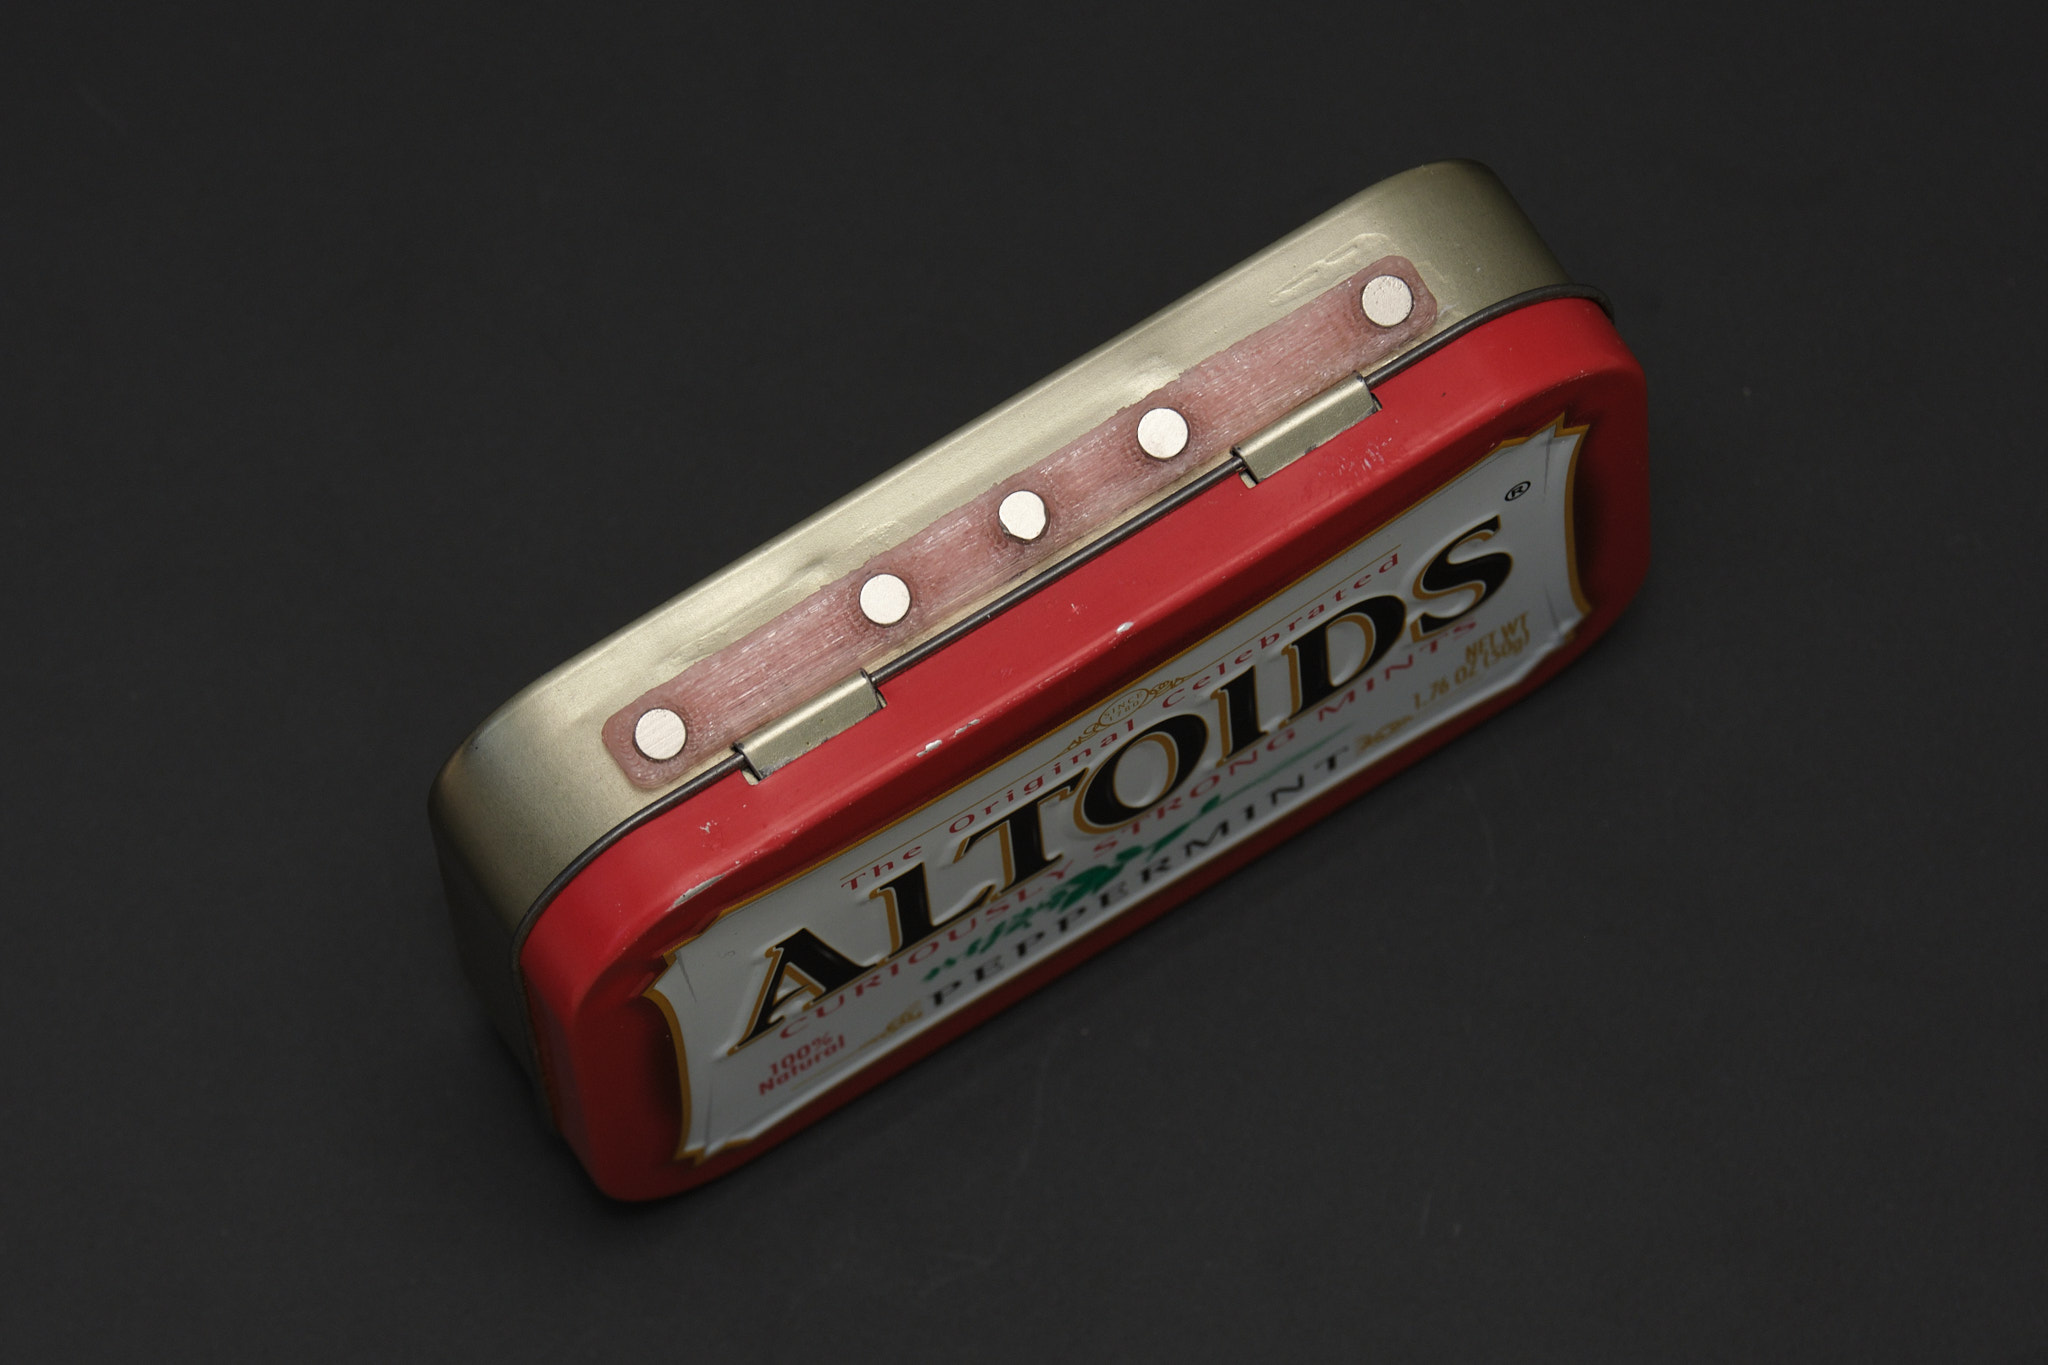
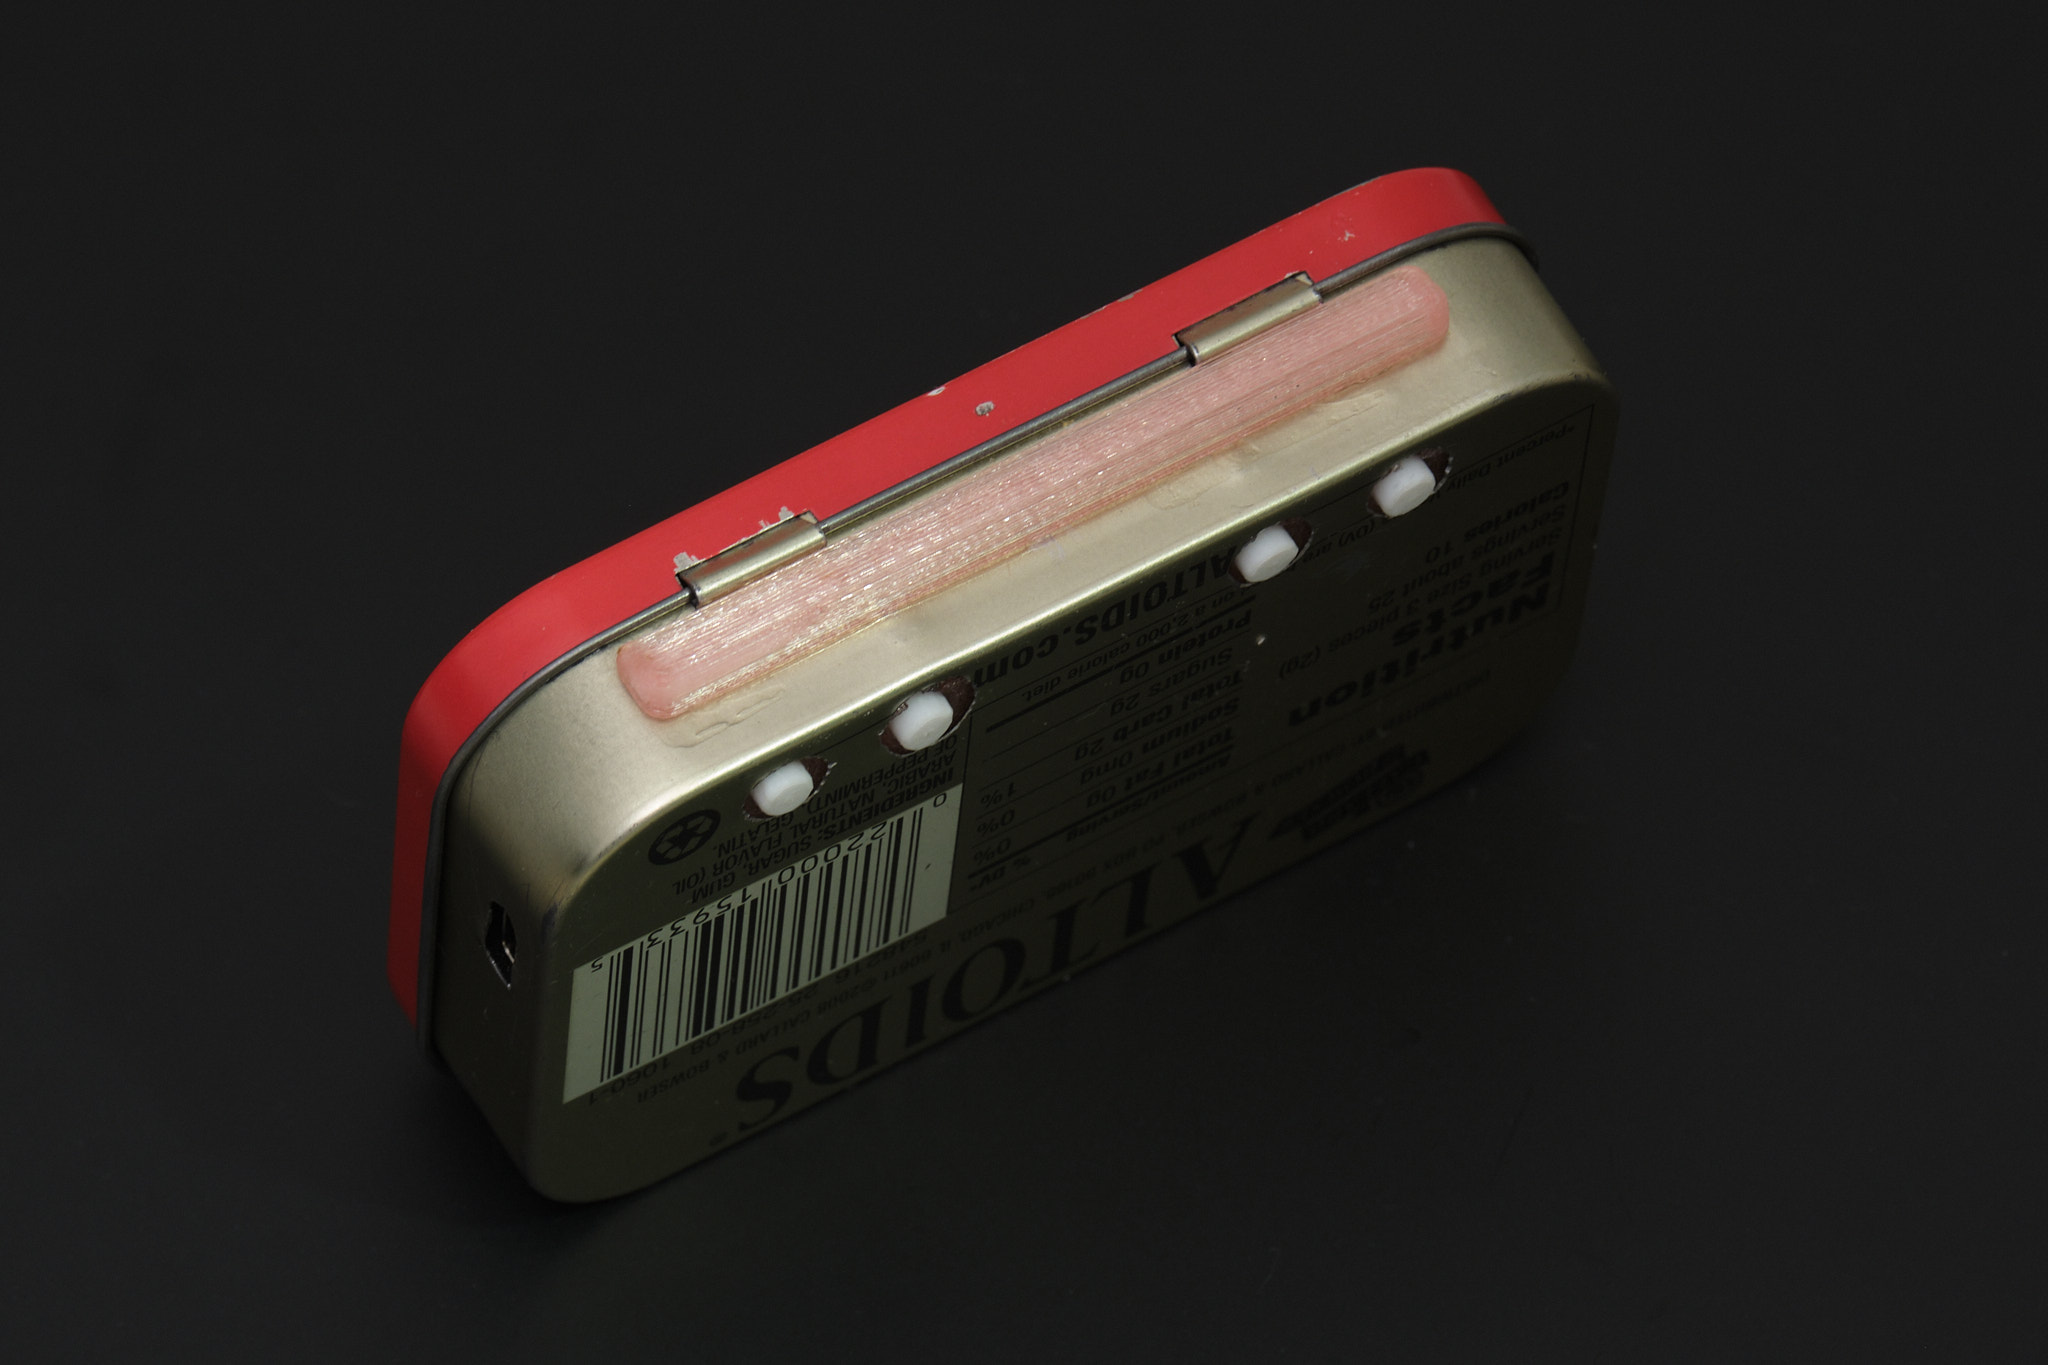
update instructions

Changed region(s): [[0.1875, 0.1231, 0.8125, 0.8923]]

diff --git a/altoids_assembly.md b/altoids_assembly.md
@@ -1,3 +1,7 @@
+---
+layout: alleycatengineering
+---
+
 # Final Assembly (Altoids Tin Version)
 
 **Important: Clean surfaces with isopropyl alcohol before using glue or double-sided tape.**
@@ -22,6 +26,10 @@ Use a small piece of thin double-sided tape to secure the battery in place if de
 
 Check that the buttons on the front panel are not sticking. If they are, it is likely due to misalignment of the 3D printed membrane or defects on the 3D printed parts that need to be trimmed off.
 
+Attach a piece of EPDM foam tape to the side of the main PCB assembly as shown to help keep it centered inside the tin.
+
+![](images/mint_tin_foam_tape.jpg)
+
 ## 2. prepare the Altoids tin
 
 Align the drill guide with the tin as shown and use it to mark locations for drilling holes for the USB port and rear buttons. Mark the center of the holes using a center punch or scribe. Use caution if using an automatic center punch as it will leave large dents in the tin if nothing is placed on the other side of the thin metal.
@@ -34,17 +42,17 @@ Drill all holes with a 1/16in (1.5mm) drill bit. Drill out the four rear button 
 
 Thoroughly clean the tin to remove any metal shavings.
 
-## 3. install the lid holder
+## 3. install the lid stop
 
-Insert five 4x2mm neodymium disc magnets into the holes in the lid holder, applying a small dab of cyanoacrylate glue to hold each one in place.
-
-![](images/lid_holder_magnets.png)
-
-Attach the lid holder to the tin as shown using cyanoacrylate glue. The magnets should all come into close contact with the lid when the tin is opened.
+Attach the lid stop to the tin as shown using cyanoacrylate glue.
 
 ![](images/lid_holder_asm_2.jpg)
 
-![](images/lid_holder_asm_1.jpg)
+![](images/lid_holder_asm_1.png)
+
+Insert the 4x2mm neodymium disc magnet into the lid clip as shown, applying a small dab of cyanoacrylate glue to hold it in place.
+
+![](images/lid_clip_magnet.png)
 
 ## 4. display
 
@@ -74,6 +82,12 @@ Apply thin double-sided tape to the display mount. Attach it to the inside of th
 
 ## 5. final assembly
 
-Connect the display cable to the Main PCB following the same steps used to connect it to the Display PCB. Insert the Main PCB assembly into the Altoids tin. It is easiest to insert the bottom edge (Raspberry Pi side) first at an angle and then tilt the assembly into place. Check that the rear buttons and USB port line up with the cutouts and that the Main PCB assembly is sitting flush with the base of the tin. Check that the tin is still able to close, making sure that the display cable folds into the space between the front panel and the display instead of being pinched between the display and the tin.
+Connect the display cable to the Main PCB following the same steps used to connect it to the Display PCB. You may need to use tweezers to reach the locking flap on the connector. Insert the Main PCB assembly into the Altoids tin. It is easiest to insert the bottom edge (Raspberry Pi side) first at an angle and then tilt the assembly into place. Check that the rear buttons and USB port line up with the cutouts and that the Main PCB assembly is sitting flush with the base of the tin. Check that the tin is still able to close, making sure that the display cable folds into the space between the front panel and the display instead of being pinched between the display and the tin.
+
+The lid clip is designed to hold both the Main PCB assembly and lid of the tin in place, so the rear buttons can be pressed without holding down the front panel and the Pi Tin can be used upside down. The lid clip attaches to the edge of the tin as shown and can be stowed in the space to the right of the display when not in use.
+
+![](images/lid_clip_use.jpg)
+
+![](images/lid_clip_stowage.jpg)
 
 ![](images/mint_tin_finished.jpg)

diff --git a/hardware_build.md b/hardware_build.md
@@ -1,3 +1,7 @@
+---
+layout: alleycatengineering
+---
+
 # Hardware
 
 **Important: Read through all the instructions thoroughly before building. This includes the software setup guide and the final assembly instructions for your chosen build option.**
@@ -11,14 +15,14 @@
 - MicroSD card, 8GB or larger
 - speaker ([CUI CMS-151125-076S-67](https://www.digikey.com/en/products/detail/same-sky-formerly-cui-devices/CMS-151125-076S-67/9561097))
 - display interconnect cable ([GCT 10-08-A-0050-C-4-08-4-T](https://www.digikey.com/en/products/detail/gct/10-08-A-0050-C-4-08-4-T/22247571))
-- 3D printed front panel
+- 3D printed faceplate
 - buttons (either 3D printed or DS Lite buttons)
 - 3D printed TPU button inserts/membranes (exact parts needed depend on buttons used)
 
 ### for 3D printed case version
 
 - 2000mAH LiPo battery, 8.0x38x60mm ([Adafruit 2011](https://www.adafruit.com/product/2011))
-- 3D printed case back
+- 3D printed lower case
 - 3D printed display housing
 - 3D printed display bezel
 
@@ -29,7 +33,8 @@
 - 8x 4x2mm neodymium disc magnets
 - 3D printed rear housing
 - 3D printed display mount
-- 3D printed lid magnet holder
+- 3D printed lid stop
+- 3D printed lid clip
 - 4x 3D printed rear button
 - 3D printed drill guide
 
@@ -46,11 +51,12 @@
 ### for Altoids tin version
 
 - drill with 1/16in (1.5mm), 1/8in (3mm), and 3/16in (5mm) drill bits
-- needle files, or Dremel with small diamond or aluminum oxide burr bits
+- needle files, or Dremel with small abrasive burr bits
 - small flush wire cutters
 - wood block that fits inside open Altoids tin, to support it during drilling
 - isopropyl alcohol, 91%
 - thin double-sided tape (such as 3M 468MP or Tesa 61395)
+- 2mm thick x 10mm wide EPDM foam tape or similar adhesive-backed foam
 - cyanoacrylate adhesive (super glue)
 
 ## 3D printing instructions
@@ -72,6 +78,8 @@ The photos below show all the parts required for each build option, assuming 3D 
 ### 3D printed parts for Altoids tin version
 
 ![](images/mint_tin_parts.jpg)
+
+<small>The parts shown in the photos were printed with Bambu Lab Translucent PETG and PolyMaker PolyFlex TPU95.</small>
 
 ## 1. solder the Raspberry Pi to the main PCB
 

diff --git a/README.md b/README.md
@@ -1,3 +1,7 @@
+---
+layout: alleycatengineering
+---
+
 # Pi Tin - the open source Raspberry Pi handheld retro gaming console
 
 ![](images/main.jpg)
@@ -22,7 +26,7 @@ Building a Pi Tin requires a Raspberry Pi Zero 2 W, two custom PCBs, some 3D pri
 
 ## build options
 
-Pi Tin can either be built with a 3D printed clamshell case or built to fit inside an Altoids tin.
+Pi Tin can either be built with a 3D printed clamshell case (93 x 66 x 26.5mm) or built to fit inside an Altoids tin.
 
 ![](images/size_comparison.jpg)
 

diff --git a/software_setup.md b/software_setup.md
@@ -1,3 +1,7 @@
+---
+layout: alleycatengineering
+---
+
 # Software Setup
 
 For convenience, we provide a SD card image based on [RetroPie 4.8](https://retropie.org.uk/download/) with all required software installed and configured. This guide assumes you are using the prebuilt image. If not, full instructions for installing the required software on top of a clean install of RetroPie are [here](./full_software_setup).

diff --git a/full_software_setup.md b/full_software_setup.md
@@ -1,3 +1,7 @@
+---
+layout: alleycatengineering
+---
+
 # Full Installation guide
 
 To install and configure all required software "from scratch" on top of a clean install of RetroPie, follow the instructions below.

diff --git a/3dp_assembly.md b/3dp_assembly.md
@@ -1,3 +1,7 @@
+---
+layout: alleycatengineering
+---
+
 # Final Assembly (3D Printed Version)
 
 ## 1. test fit the PCB
